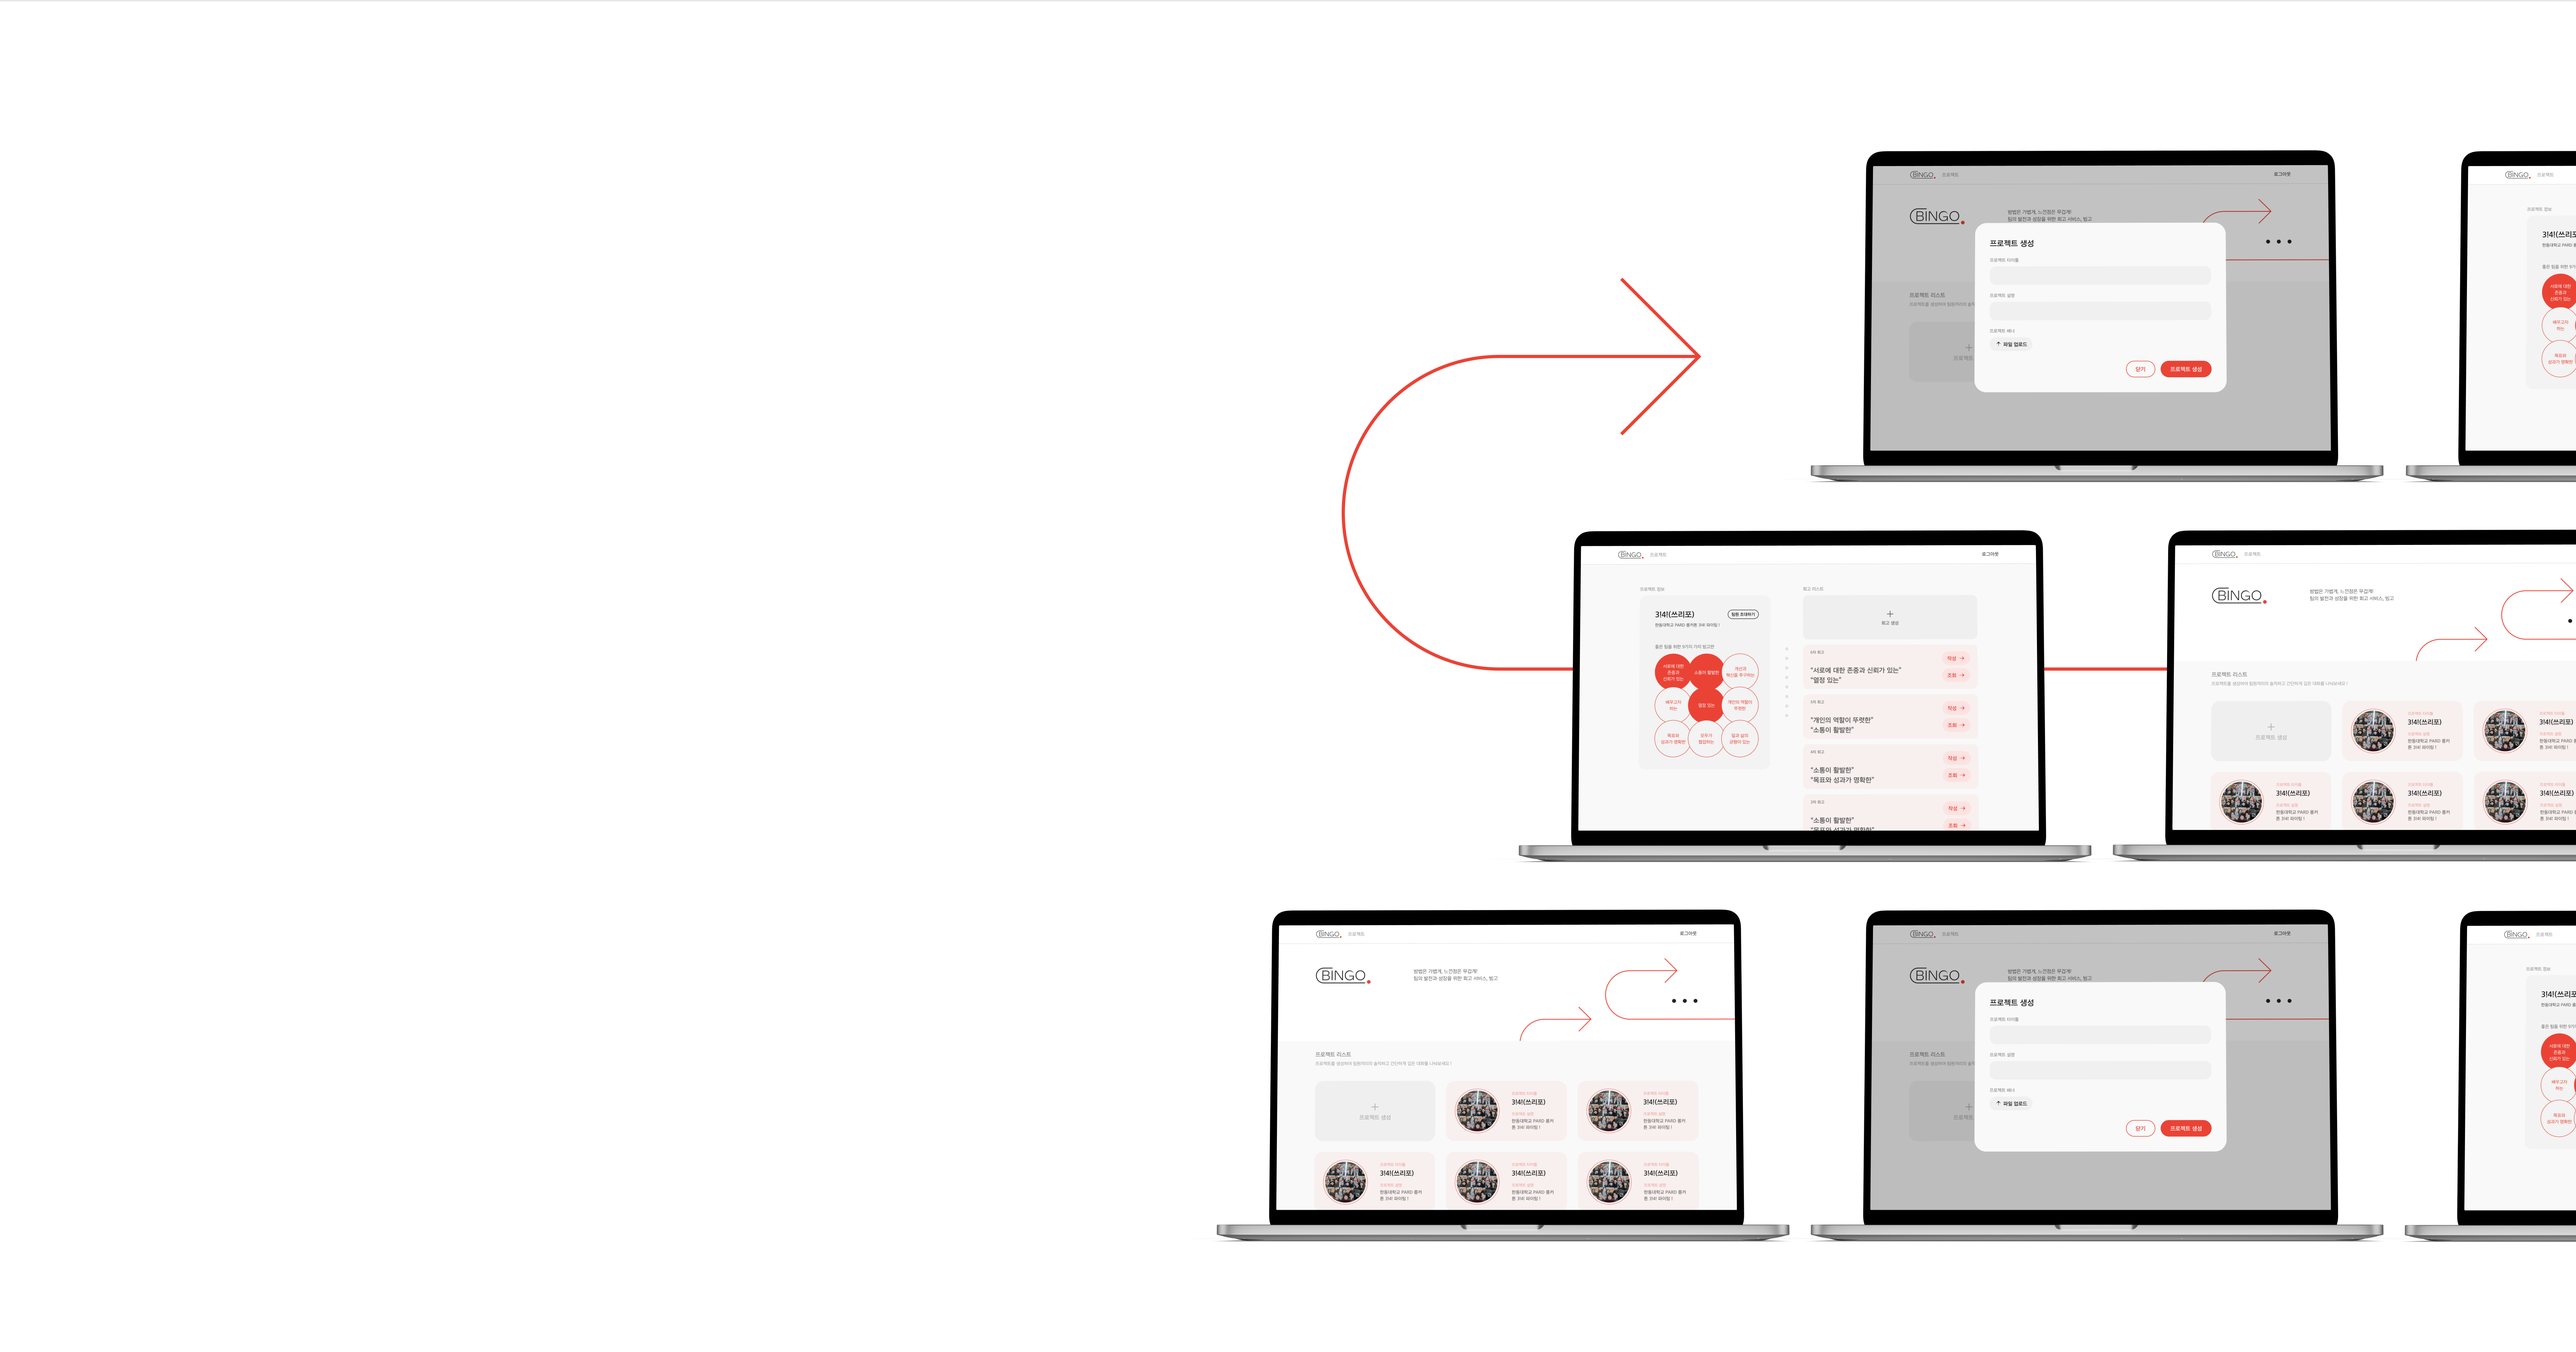
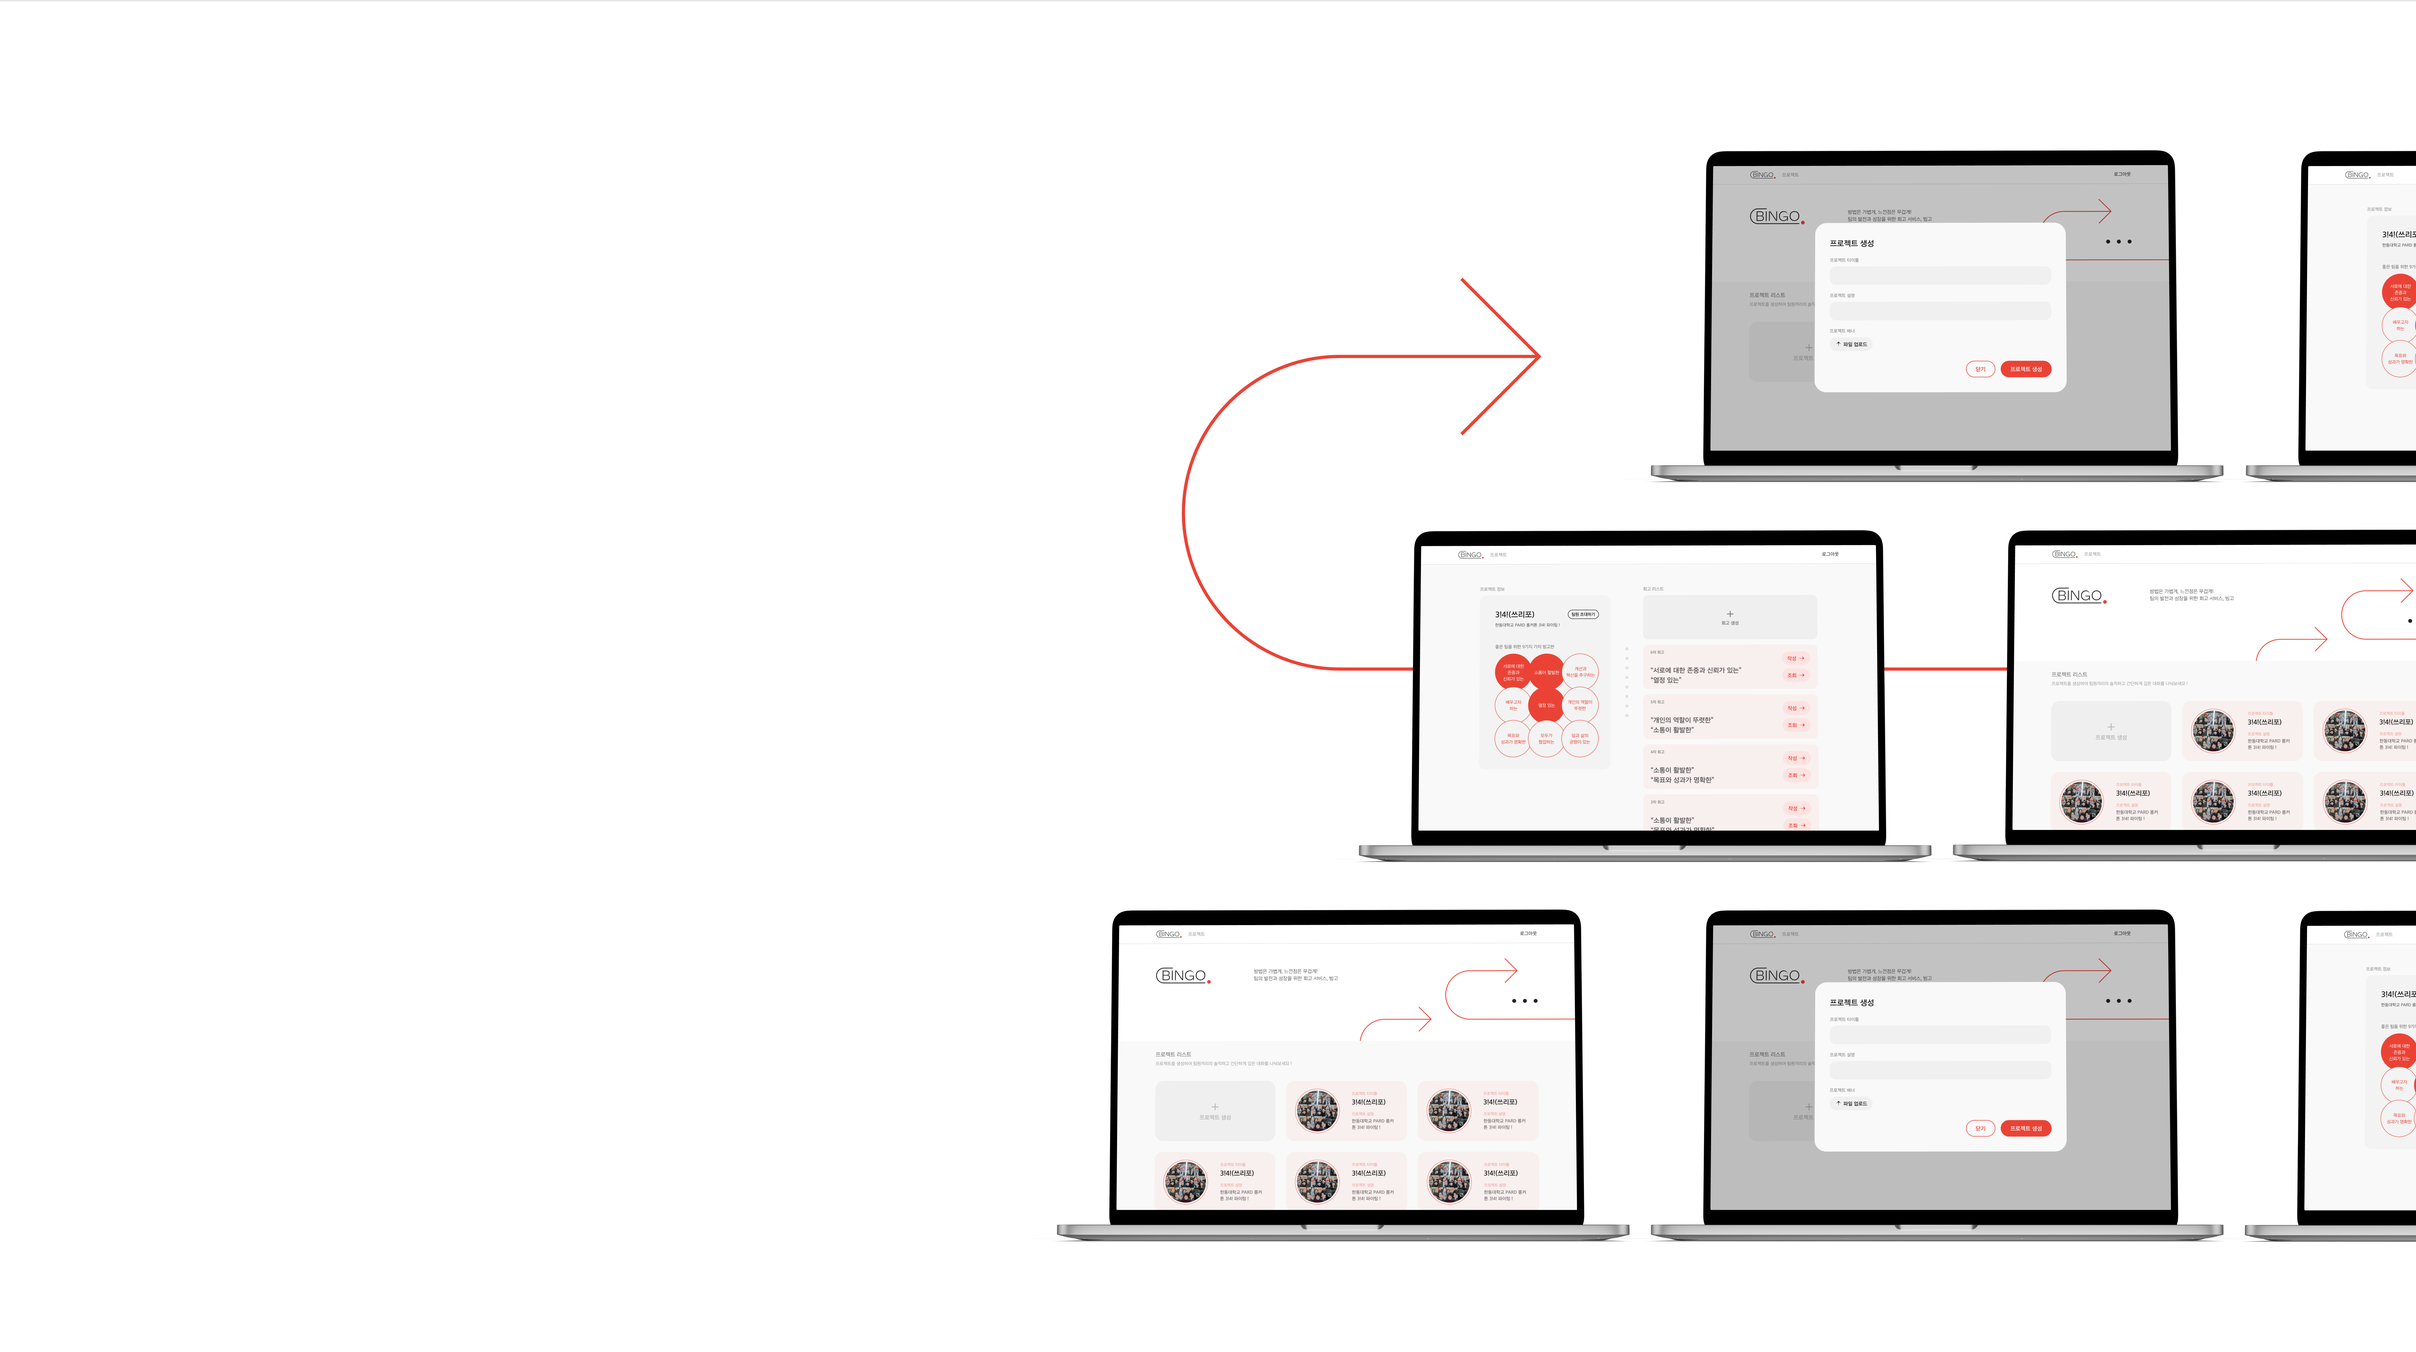
240101 용현 : Intro 잠정 중단

diff --git a/bingo/src/Pages/Login/Intro/index.js b/bingo/src/Pages/Login/Intro/index.js
@@ -1,12 +1,6 @@
 /* eslint-disable */
 import React from "react";
 import styled from "styled-components";
-import {Button} from "@mui/material";
-import {Link} from "react-router-dom";
-import {Login} from "@mui/icons-material";
-import {Div} from "../../../Components/NormalComponents/Section";
-import {Img} from "../../../Components/NormalComponents/Etc";
-import GoogleLoginButton from "../GoogleLogin";
 
 const Introwhole = styled.div`
   width: 100vw;
@@ -17,34 +11,52 @@ const Introwhole = styled.div`
   box-sizing: border-box;
 `;
 
-const LoginDiv = styled.div ` 
-  height: 7%;
-  width: 100%;
+const LoginDiv = styled.div `
+  margin-left : 10%;
+  height: 75%;
+  width: 30%;
   display: flex;
-  justify-content: end;
+  /* justify-content: center; */
+  align-items : left;
+  flex-direction : column;
+  border : 1px solid red;
 `;
-
+const Div1 = styled.div`
+  color : "#000";
+  font-size : 15px;
+  margin-top : 0;
+`
+const Div2 = styled.div`
+  color : "#222";
+  font-size : 40px;
+  font-weight : 400;
+`
+const Div3 = styled.div`
+  color : #000;
+  font-size : 20px;
+`
 const LoginBtn = styled.button `
-  width: 6%;
-  height: 100%;
+  width: 40%;
+  height: 10%;
   font-size: 24px;
-  border-radius: 30px;
+  border-radius: 40px;
   border: 1px solid transparent;
-  background-color: gainsboro;
+  background: url("/img/Login/IntroBtn.png") no-repeat;
+  background-size: cover;
   margin-right: 3%;
-`;
-
-const MainDiv = styled.div `
-  display: flex;
-  height: 80vh;
-  border: 1px solid blue;
 `;
 
 const Intro = () => {
     return (
       <Introwhole>
         <LoginDiv>
-          <LoginBtn onClick={() => (window.location.href = "/Login")}>로그인</LoginBtn>
+          <Div1>팀의 발전과 성장을 위한 회고 서비스, BINGO</Div1>
+          <Div2>방법은 가볍게, <br /> 느낀점은 무겁게!</Div2>
+          <Div3>
+            빙고는 팀에 가장 <strong>적합한 방법과 질문</strong>으로 회고를 작성하고, <br /> 
+            모두의 답변이 작성되면 <strong>한눈에 결과를 보고 분석</strong>할 수 있습니다.
+          </Div3>
+          <LoginBtn onClick={() => (window.location.href = "/Login")} />
         </LoginDiv>
       </Introwhole>
     );
